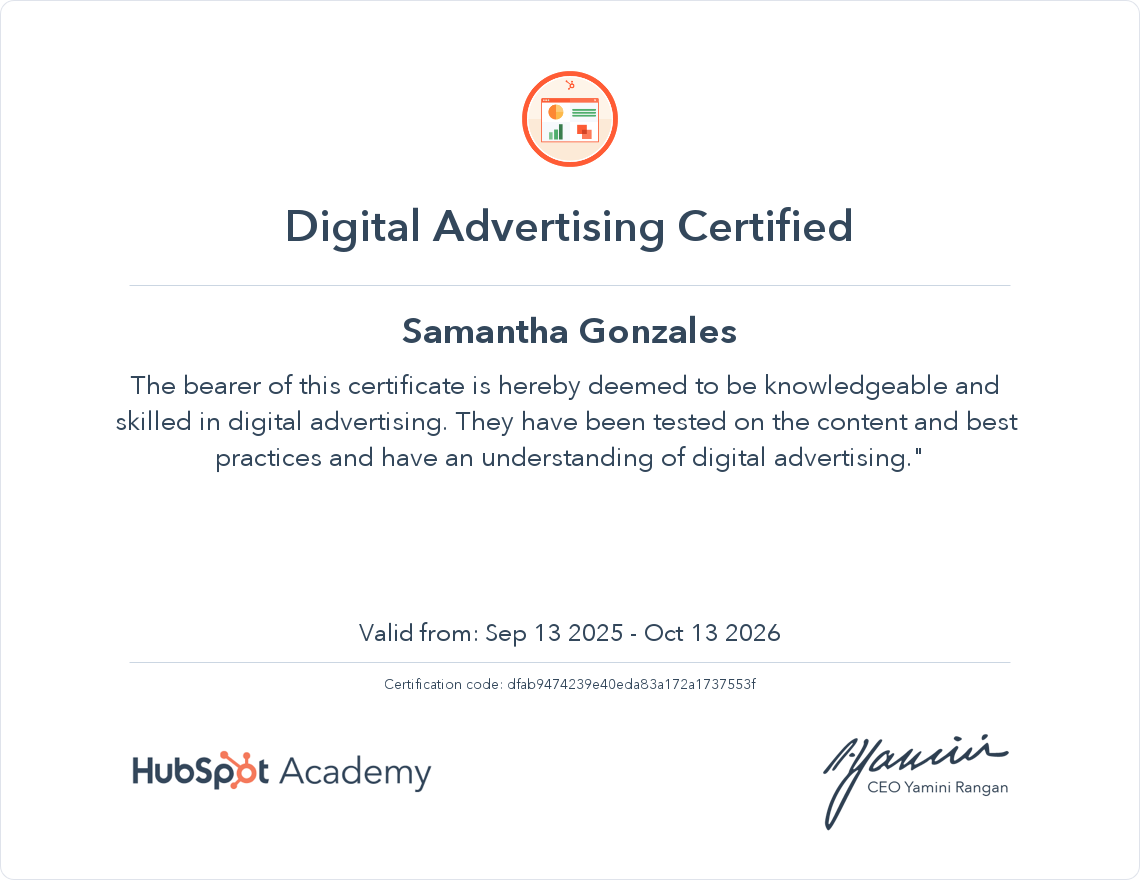
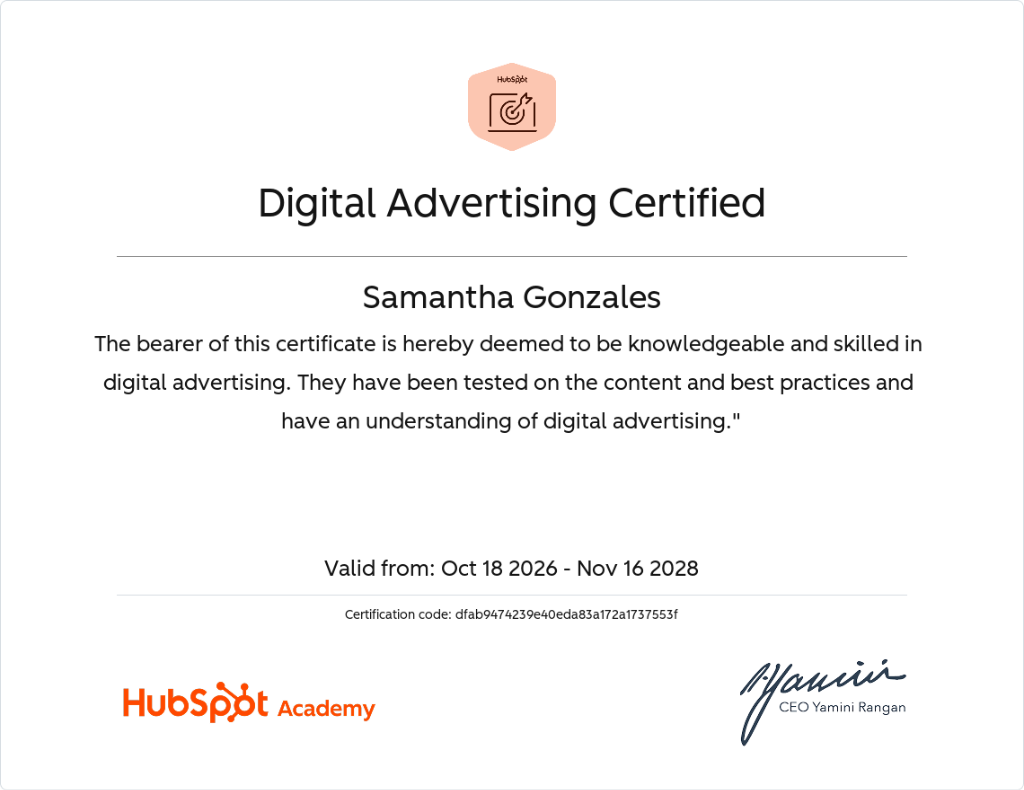
Update certifications: add new FCC Front-End and Python certs, update HubSpot certs, remove expired

diff --git a/script.js b/script.js
@@ -609,11 +609,11 @@ revealElements.forEach(el => observer.observe(el));
 /* --- 11. LUXURY CERTIFICATE SHOWCASE SLIDER --- */
 const certificatesData = [
     {
-        title: "Intro to Graphic Design: UI/UX",
-        issuer: "SIMPLILEARN SKILLUP",
-        desc: "Mastering the principles of visual communication and user-centered design to bridge the gap between aesthetics and usability.",
-        img: "./assets/certificates/Intro to Graphic Design Basics UI_UX.png",
-        link: "https://drive.google.com/file/d/1JExIUJKHYITrQb21G-5zbhKfPGrNWMw8/view?usp=drive_link"
+        title: "Front-End Development Libraries",
+        issuer: "FREECODECAMP",
+        desc: "Building responsive, dynamic user interfaces using modern front-end libraries and frameworks including React, Redux, Bootstrap, jQuery, and SASS.",
+        img: "./assets/certificates/Front-End Development Libraries.png",
+        link: "https://www.freecodecamp.org/certification/samgonzales/front-end-development-libraries-v9"
     },
     {
         title: "Responsive Web Design",
@@ -623,6 +623,13 @@ const certificatesData = [
         link: "https://drive.google.com/file/d/1V0MWmoZiCl3IXdzZJDXAyxVlZewd6_ml/view?usp=sharing"
     },
     {
+        title: "Data Analysis with Python",
+        issuer: "FREECODECAMP",
+        desc: "Analyzing and visualizing complex data sets using Python, NumPy, Pandas, Matplotlib, and Seaborn for data-driven design and decision making.",
+        img: "./assets/certificates/Data Analysis with Python.png",
+        link: "https://www.freecodecamp.org/certification/samgonzales/data-analysis-with-python-v7"
+    },
+    {
         title: "Introduction to Figma",
         issuer: "SIMPLILEARN SKILLUP",
         desc: "Prototyping high-fidelity interfaces and managing design systems using Figma's industry-standard collaborative tools.",
@@ -630,25 +637,18 @@ const certificatesData = [
         link: "https://drive.google.com/file/d/1Qv6hzlGFU1VJL8GNjajdWcD_sM4NjMCw/view?usp=sharing"
     },
     {
-        title: "Design Thinking for Beginners",
-        issuer: "SIMPLILEARN SKILLUP",
-        desc: "Applying empathy-based problem-solving frameworks to ideate, prototype, and iterate on user-focused digital solutions.",
-        img: "./assets/certificates/Design Thinking for Beginners.png",
-        link: "https://drive.google.com/file/d/1ehHZFS0nltzPnEySF7tPSpyjLNSdKb8o/view?usp=drive_link"
-    },
-    {
         title: "Digital Marketing Certified",
         issuer: "HUBSPOT ACADEMY",
         desc: "Strategizing content marketing, SEO integration, and social media engagement to drive brand awareness and conversion.",
         img: "./assets/certificates/Digital Marketing.png",
-        link: "https://drive.google.com/file/d/1SmhBRd8OYYRfv0r1e9q2rRwlru1Vv-AW/view?usp=sharing"
+        link: "https://app-na2.hubspot.com/academy/achievements/3mzw9fxy/en/1/samantha-gonzales/digital-marketing-certified"
     },
     {
         title: "Digital Advertising Certified",
         issuer: "HUBSPOT ACADEMY",
         desc: "Developing targeted advertising campaigns, managing budgets, and optimizing multi-channel performance tracking.",
         img: "./assets/certificates/Digital Advertising Certification.png",
-        link: "https://drive.google.com/file/d/1HJpoUvR-TLlH7IiqpDLdxByYD-BLNiX-/view?usp=drive_link"
+        link: "https://app-na2.hubspot.com/academy/achievements/s54rph1g/en/1/samantha-gonzales/digital-advertising-certified"
     },
     {
         title: "SEO Certified",

diff --git a/index.html b/index.html
@@ -1321,7 +1321,7 @@
                 <div class="cert-frame-outer">
                     <div class="cert-frame-gold">
                         <div class="cert-frame-inner">
-                            <img id="certActiveImg" src="./assets/certificates/Intro to Graphic Design Basics UI_UX.png" alt="Intro to Graphic Design: UI/UX" class="cert-display-img">
+                            <img id="certActiveImg" src="./assets/certificates/Front-End Development Libraries.png" alt="Front-End Development Libraries" class="cert-display-img">
                         </div>
                     </div>
                 </div>
@@ -1333,12 +1333,12 @@
 
             <!-- Cert Meta & Details -->
             <div class="cert-info-block text-center">
-                <div id="certIssuer" class="cert-issuer-tag">SIMPLILEARN SKILLUP</div>
-                <h3 id="certTitle" class="cert-title">Intro to Graphic Design: UI/UX</h3>
-                <p id="certDesc" class="cert-desc">Mastering the principles of visual communication and user-centered design to bridge the gap between aesthetics and usability.</p>
+                <div id="certIssuer" class="cert-issuer-tag">FREECODECAMP</div>
+                <h3 id="certTitle" class="cert-title">Front-End Development Libraries</h3>
+                <p id="certDesc" class="cert-desc">Building responsive, dynamic user interfaces using modern front-end libraries and frameworks including React, Redux, Bootstrap, jQuery, and SASS.</p>
                 
                 <div class="cert-action-row">
-                    <a id="certLink" href="https://drive.google.com/file/d/1JExIUJKHYITrQb21G-5zbhKfPGrNWMw8/view?usp=drive_link" target="_blank" rel="noopener noreferrer" class="cert-pill-btn">
+                    <a id="certLink" href="https://www.freecodecamp.org/certification/samgonzales/front-end-development-libraries-v9" target="_blank" rel="noopener noreferrer" class="cert-pill-btn">
                         VIEW CERTIFICATE ↗
                     </a>
                     <div id="certDashes" class="cert-dashes-row">
